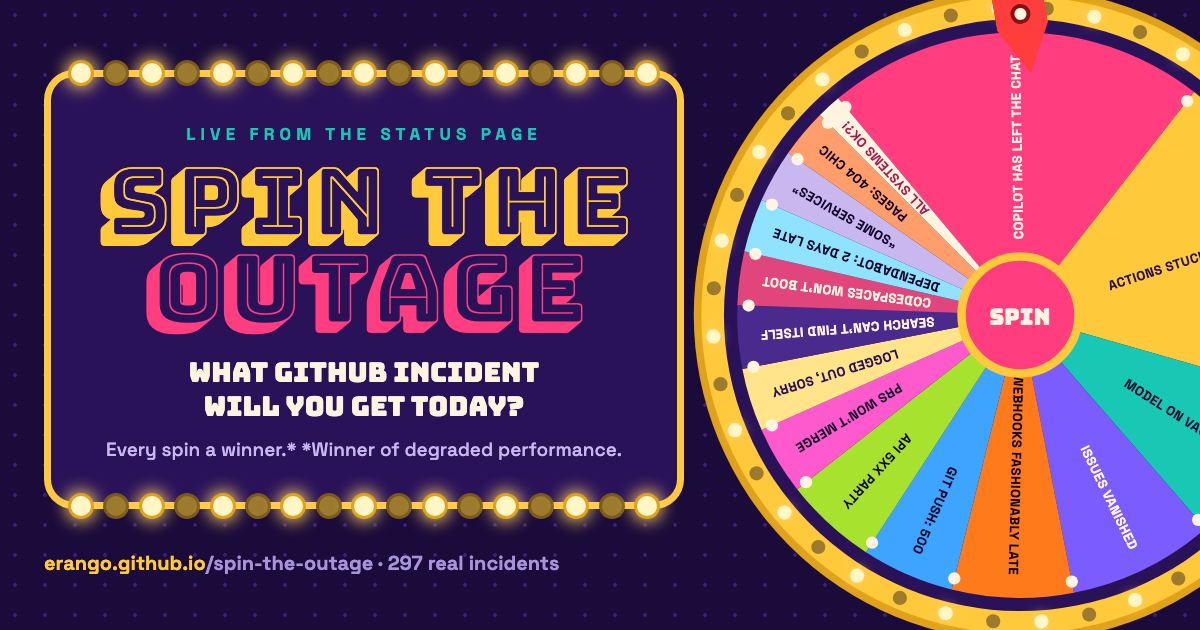
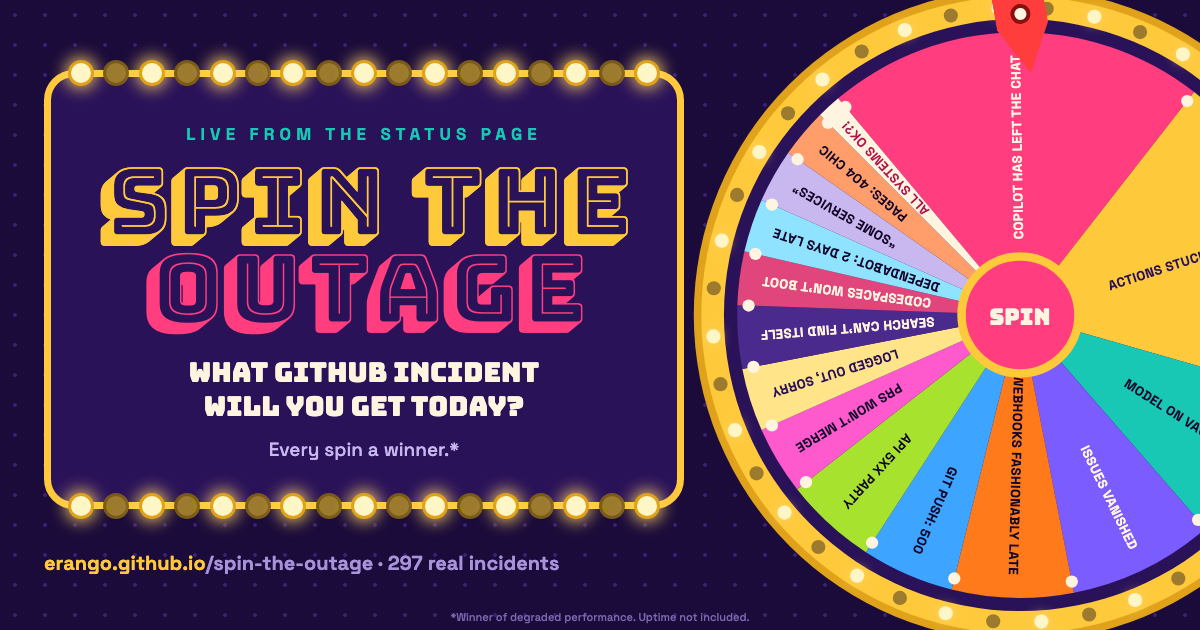
Spin the Outage: move the asterisk's fine print to the bottom

Changed region(s): [[0.0925, 0.6937, 0.5242, 0.7238], [0.37, 0.9651, 0.6167, 0.9952]]

diff --git a/spin-the-outage/index.html b/spin-the-outage/index.html
@@ -126,6 +126,7 @@ main{width:100%; max-width:1240px; display:flex; flex-wrap:wrap; justify-content
 .badge{display:none; align-self:flex-start; padding:6px 14px; border-radius:999px; background:var(--gold); color:var(--deep); font-family:'Bungee',sans-serif; font-size:14px}
 .badge.show{display:inline-block}
 
+.fine{margin:0 0 14px; font-size:10.5px; color:#7A68AE; letter-spacing:.01em}
 footer{font-size:13px; color:#8F7BC4; text-align:center; max-width:760px; line-height:1.5}
 
 /* result dialog */
@@ -192,7 +193,7 @@ dialog[open]{animation:drop .5s cubic-bezier(.3,1.5,.5,1)}
   <p class="eyebrow">Live from the status page</p>
   <h1>Spin the <span>Outage</span></h1>
   <p class="sub">What GitHub incident will you get today?</p>
-  <p class="tag">Every spin a winner.* <span>*Winner of degraded performance.</span></p>
+  <p class="tag">Every spin a winner.*</p>
 </header>
 
 <main>
@@ -250,7 +251,7 @@ dialog[open]{animation:drop .5s cubic-bezier(.3,1.5,.5,1)}
   <p style="margin:4px 0 0;font-size:14px;color:var(--lav)">Collect all 15 to become <strong style="color:var(--gold)">Incident Commander</strong>. Sometimes several incidents happen at once — then you win a free round and keep everything.</p>
 </section>
 
-<footer>Not affiliated with GitHub. No servers were harmed. Odds from 297 public incidents on <a href="https://www.githubstatus.com/history">githubstatus.com</a>, Nov 2025 – Nov 2026, sized by the main service each incident hit. Median time to fix: 78 minutes. Hug your SRE today.</footer>
+<footer><p class="fine">*Winner of degraded performance. Prizes are non-transferable, non-refundable and non-operational. Uptime not included. Past incidents are a pretty good predictor of future incidents.</p>Not affiliated with GitHub. No servers were harmed. Odds from 297 public incidents on <a href="https://www.githubstatus.com/history">githubstatus.com</a>, Nov 2025 – Nov 2026, sized by the main service each incident hit. Median time to fix: 78 minutes. Hug your SRE today.</footer>
 
 <dialog id="result" aria-labelledby="rTitle">
   <p class="r-head" id="rHead">Ding! Ding! Ding!</p>
